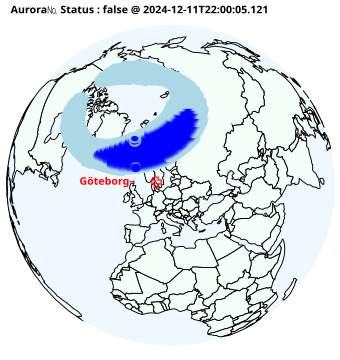
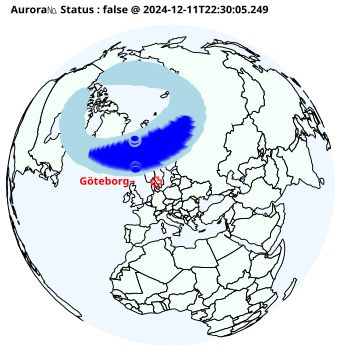
20241211223018 added aur.html

diff --git a/aur.html b/aur.html
@@ -7,6 +7,6 @@
 <body>
     <h1>Aurora Watch</h1>
     <img src="a.png" alt="Aurora Image" style="width:100%;max-width:600px;">
-    <p>Aurora Level 🌌= (0.0) was observed. (2024-12-11T22:00:05.121)</p>
+    <p>Aurora Level 🌌= (0.0) was observed. (2024-12-11T22:30:05.249)</p>
 </body>
 </html>
